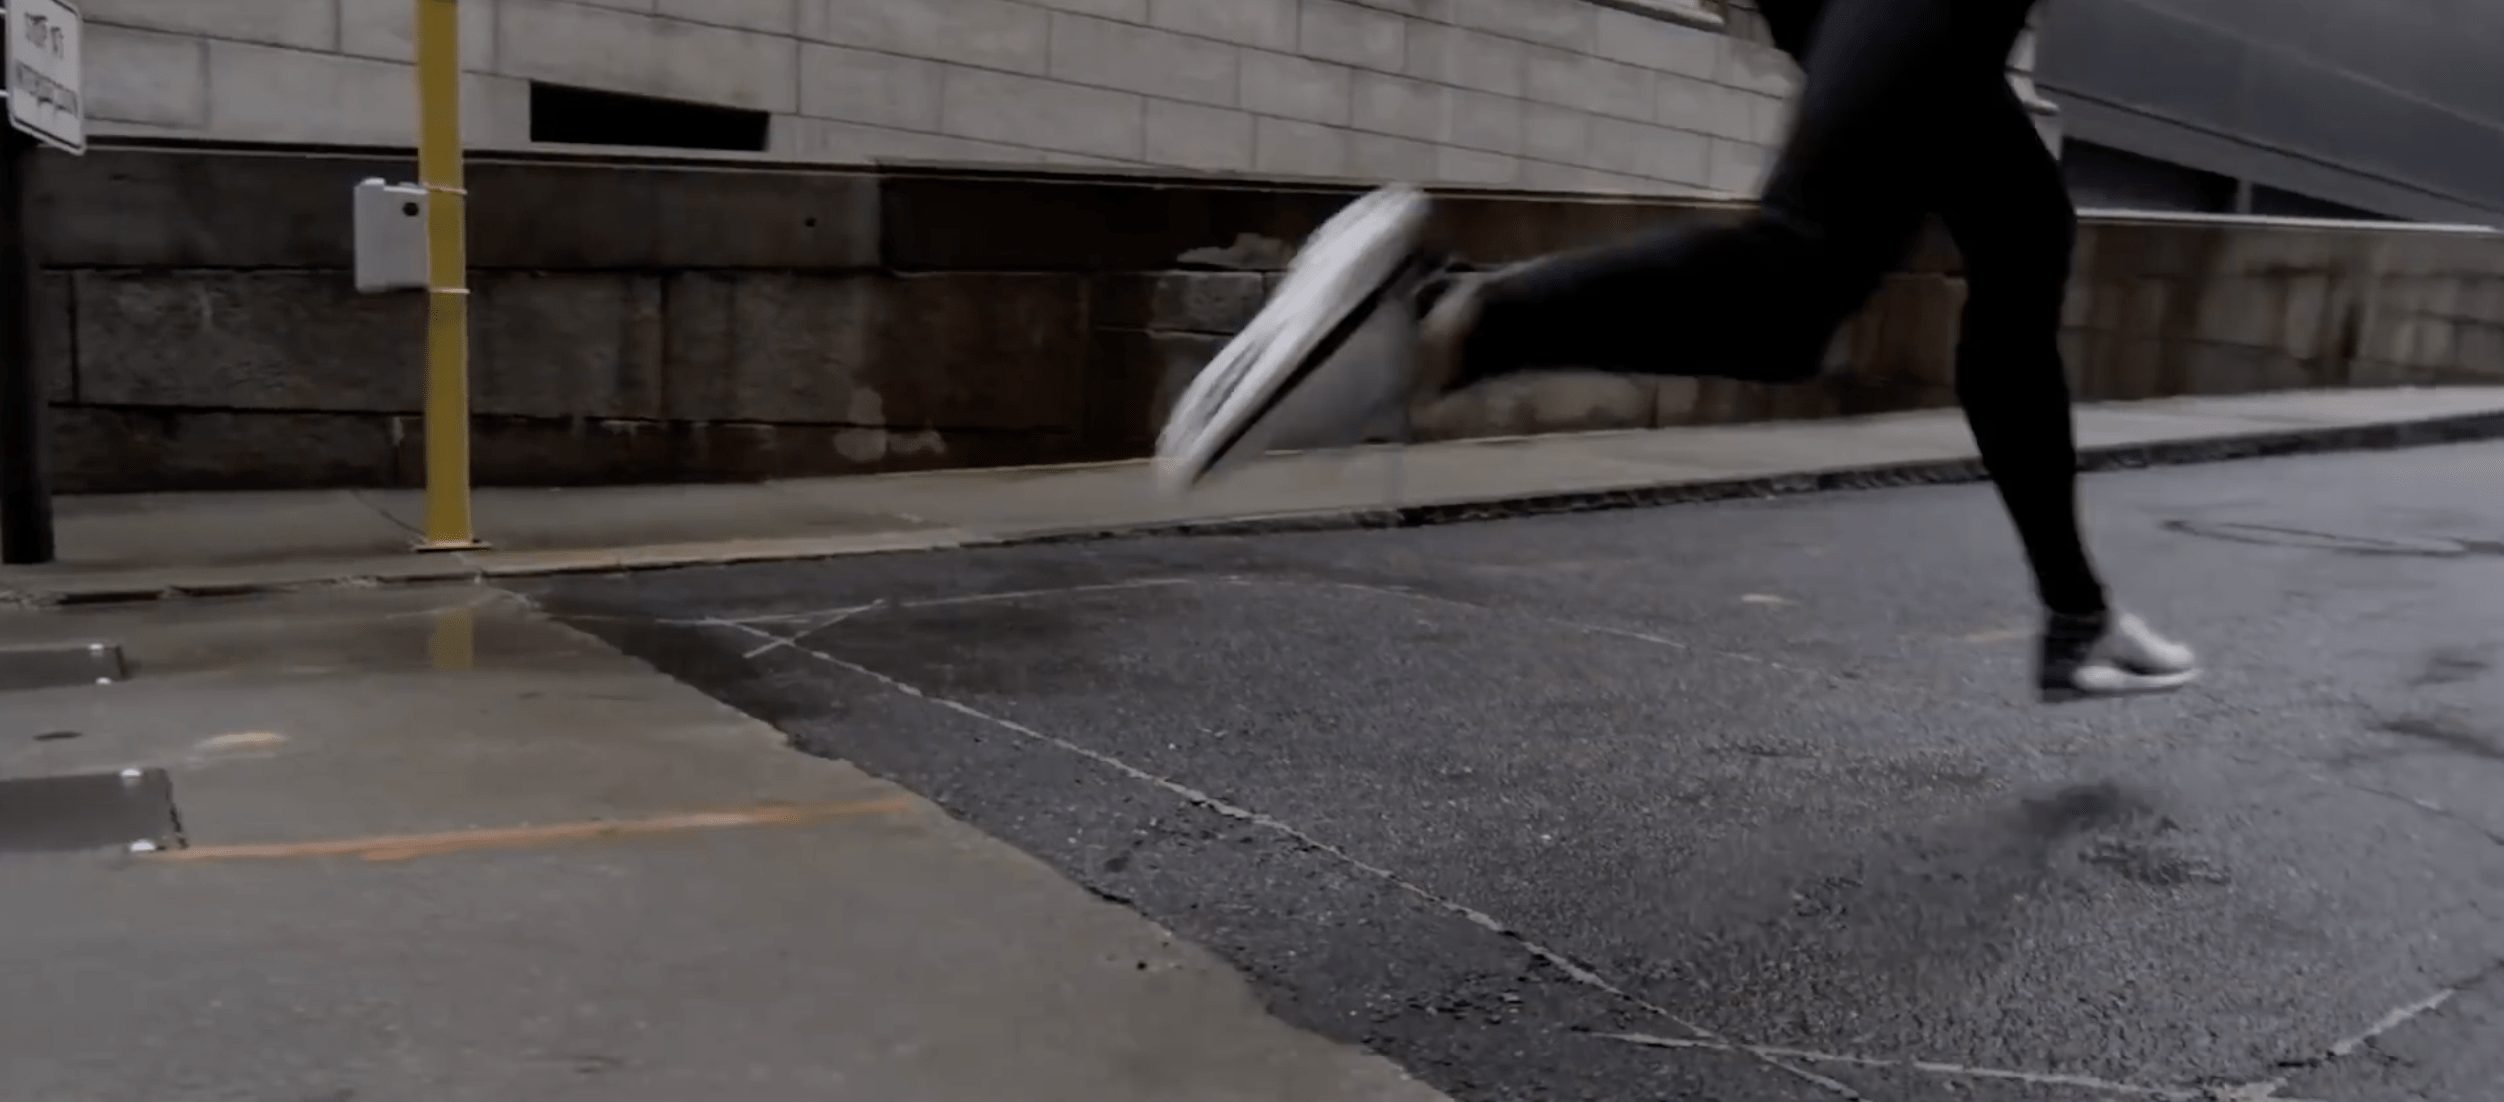
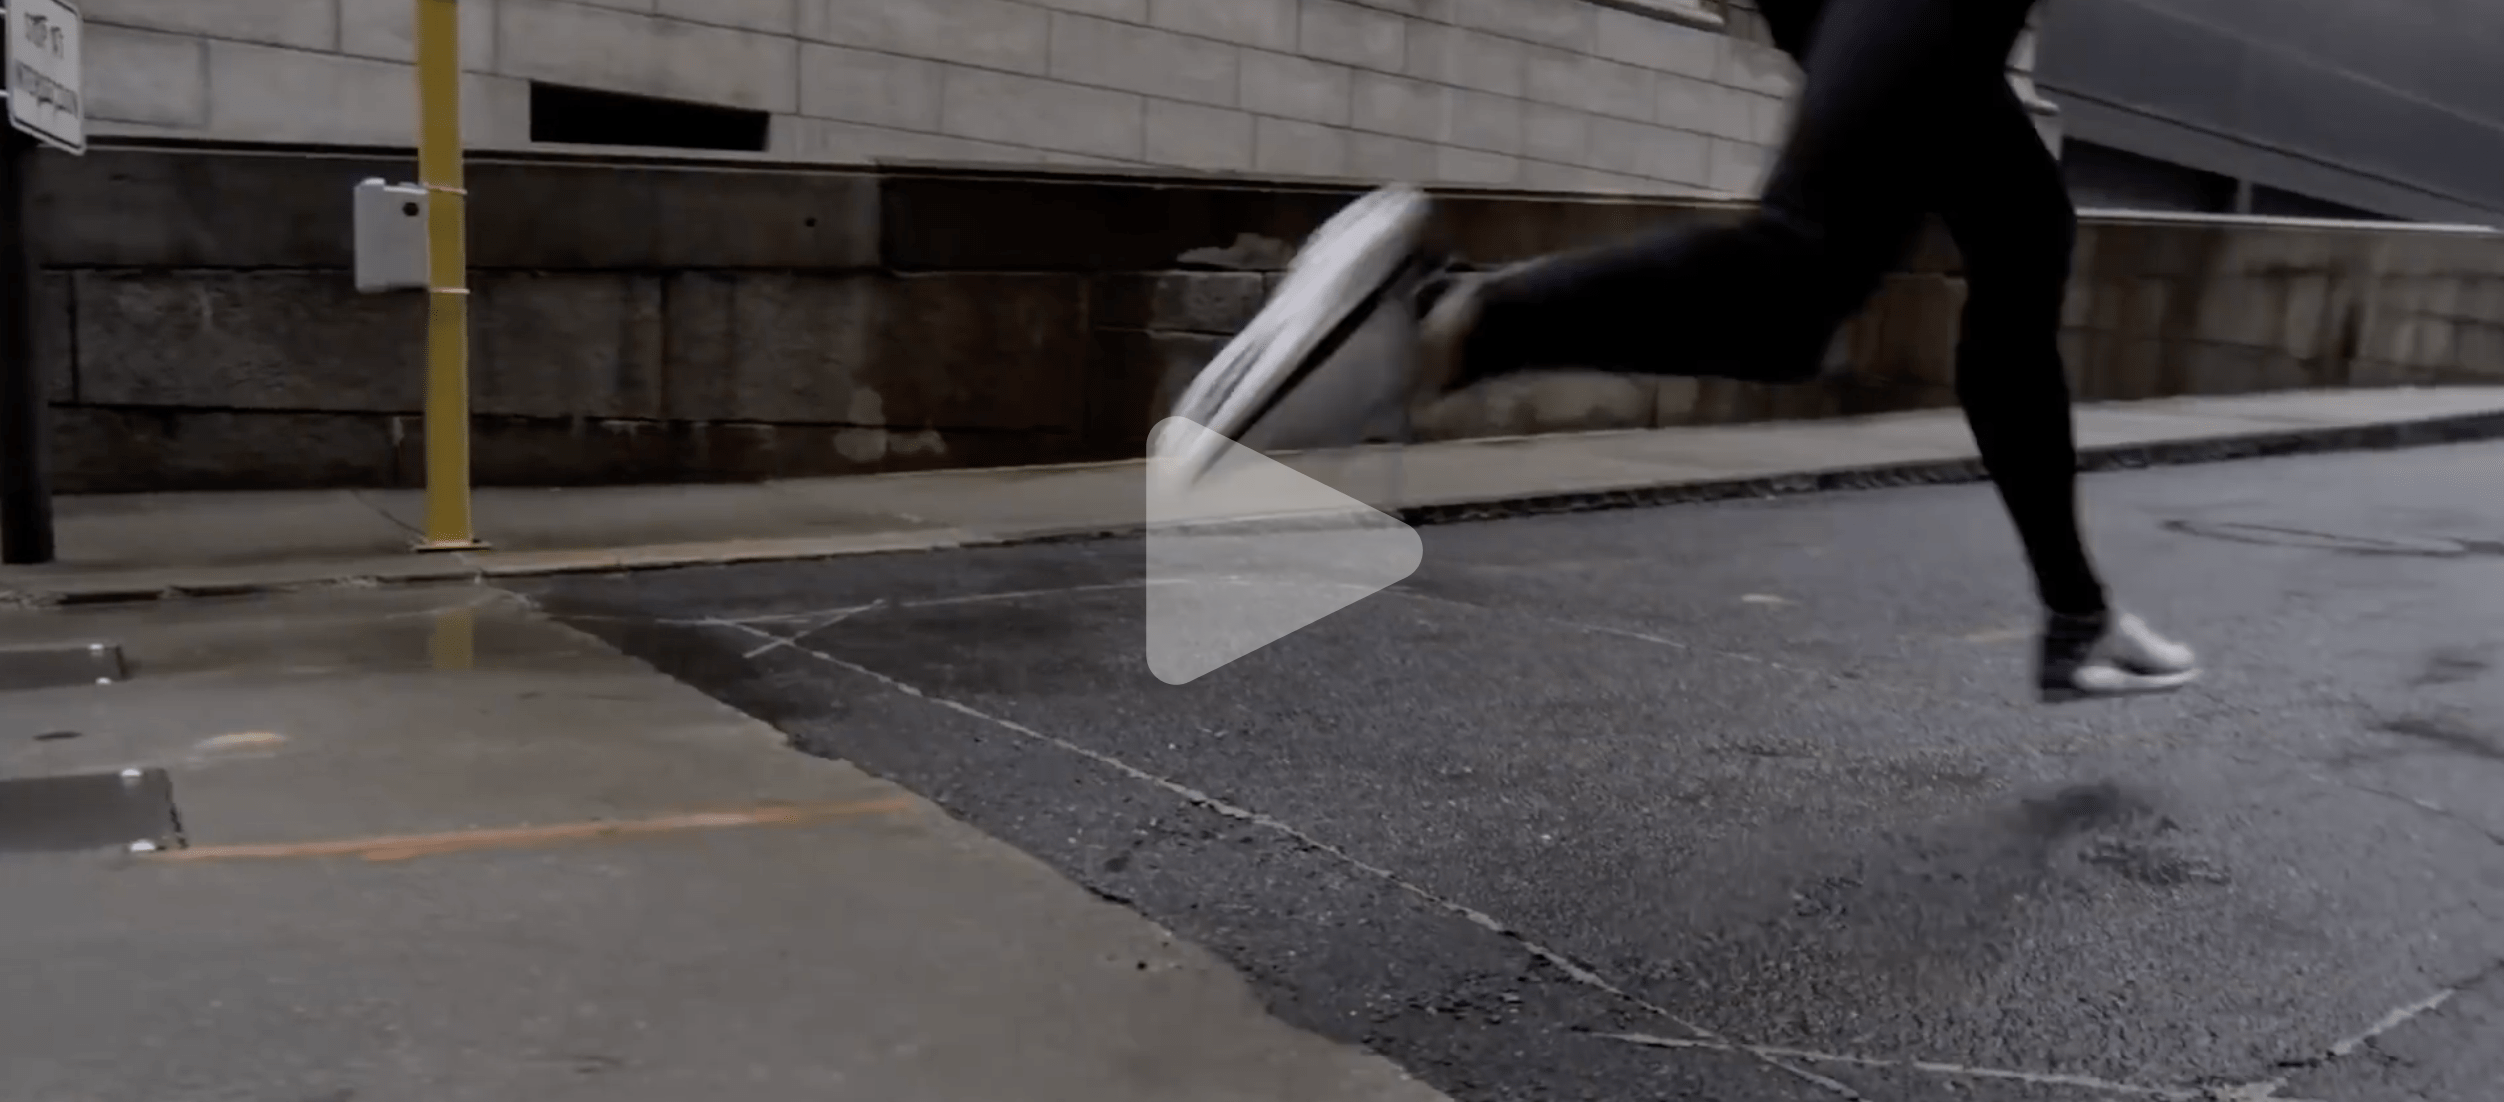
added 404 page, investigated build issue (nothing found), styled things here and there

Changed region(s): [[0.4361, 0.3702, 0.5919, 0.6171]]

diff --git a/src/pages/404.js b/src/pages/404.js
@@ -1,0 +1,30 @@
+import React from "react"
+import Layout from '../components/Layout'
+import { Link } from 'gatsby'
+
+
+const _404 = () => {
+    return (
+        
+        <Layout>
+
+            <div className="_404Container whiteHexBg flex flexHardCenter flexColumn">
+
+                <h2 className="_404Title minionPro">
+                    Oops! Looks like that wasn't found here.
+                </h2>
+
+                <p className="_404Text">
+                    Maybe head back <Link to="/" className="_404Link">home</Link>, 
+                    check out our <Link to="/products" className="_404Link">products</Link>, 
+                    or read our <Link to="/about" className="_404Link">story</Link>.
+                </p>
+
+            </div>
+
+        </Layout>
+
+    )
+}
+
+export default _404

diff --git a/src/components/Nav.js b/src/components/Nav.js
@@ -18,6 +18,21 @@ const Nav = () => {
         logo.classList.toggle('menuActive');
     }
 
+    // on desktop, adds scrolled class to nav
+// var myNav = document.querySelector("nav");
+// var nav = document.querySelector(".nav__list");
+
+// window.onscroll = function() {
+//   "use strict";
+//   if (document.body.scrollTop >= 100 || document.documentElement.scrollTop >= 100) {
+//     nav.classList.add("scrolled");
+//     myNav.classList.add("scrolled");
+//   } else {
+//     nav.classList.remove("scrolled");
+//     myNav.classList.remove("scrolled");
+//   }
+// };
+
     return (
         
         <header className="navigation">

diff --git a/src/sass/components/_404.scss b/src/sass/components/_404.scss
@@ -1,0 +1,29 @@
+._404Container {
+    color: $orange;
+    padding: 15rem 1rem;
+    text-align: center;
+
+    ._404Title {
+        font-size: 2.5em;
+    }
+
+    ._404Text {
+        font-size: 1.4em;
+        font-family: $font;
+        margin-top: 3.5rem;
+        line-height: 2.3;
+    }
+
+    ._404Link {
+        background-color: $orange-rgb;
+        color: $white;
+        padding: .3rem;
+        border-radius: 4px;
+        font-weight: bold;
+        transition: all ease-in-out .3s;
+
+        &:hover {
+            background-color: darken($color: $orange, $amount: 1);
+        }
+    }
+}

diff --git a/src/pages/infrared.js b/src/pages/infrared.js
@@ -18,9 +18,10 @@ const Infrared = () => {
                 bgImage={infraredHeader}
             />
 
-            {/* to be replaced with video... */}
             <section className="videoSection">
-                <img src={infraredVideo} alt="" className="videoThumbnail"/>
+                <a href="#" target="_blank" className="youTubeVideoLink">
+                    <img src={infraredVideo} alt="" className="videoThumbnail"/>
+                </a>
             </section>
 
             <TextSection 

diff --git a/src/sass/_utils.scss b/src/sass/_utils.scss
@@ -13,6 +13,7 @@ a {text-decoration:none;color:inherit;}
 // colors
 $white: #fff;
 $orange: #EF8B34;
+$orange-rgb: rgba(239,139,52, .8);
 
 $black: #222;
 $light-grey: #dcdcdc;

diff --git a/src/sass/components/_infraredBenefits.scss b/src/sass/components/_infraredBenefits.scss
@@ -52,3 +52,11 @@
     text-align: center;
     margin-top: -2rem;
 }
+
+.videoSection {
+    margin: 2.3rem 0;
+
+    .videoThumbnail {
+        width: 100%;
+    }
+}

diff --git a/src/sass/components/_all.scss b/src/sass/components/_all.scss
@@ -9,3 +9,4 @@
 @import 'contactForm';
 @import 'singleProduct';
 @import 'singleBlog';
+@import '404';
